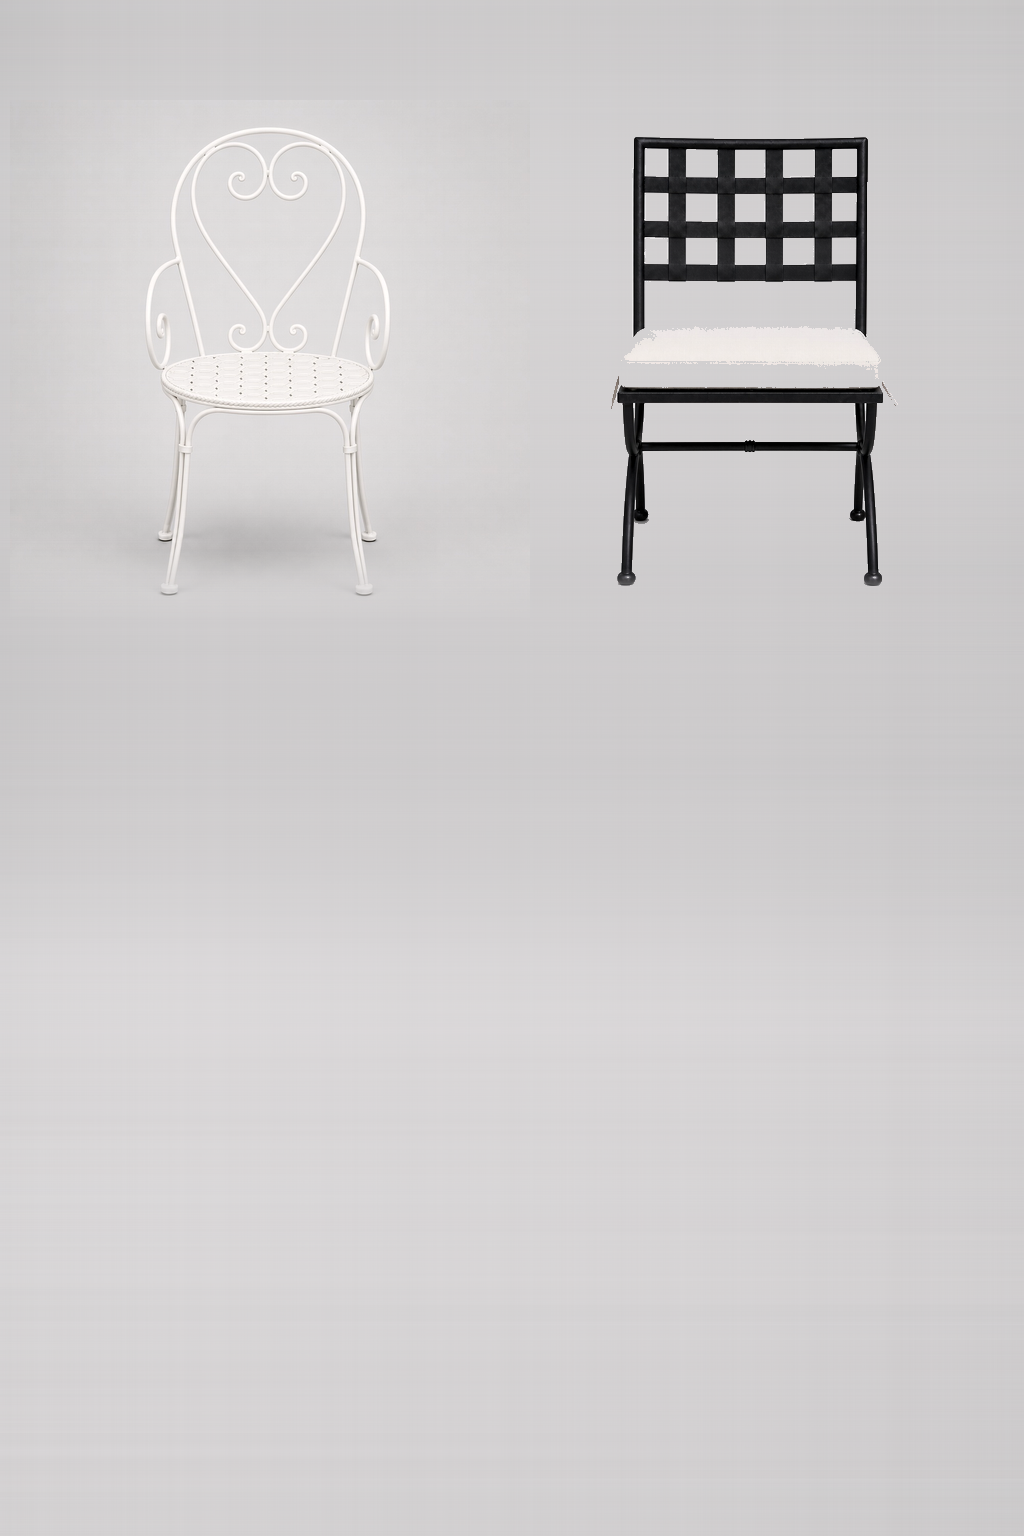
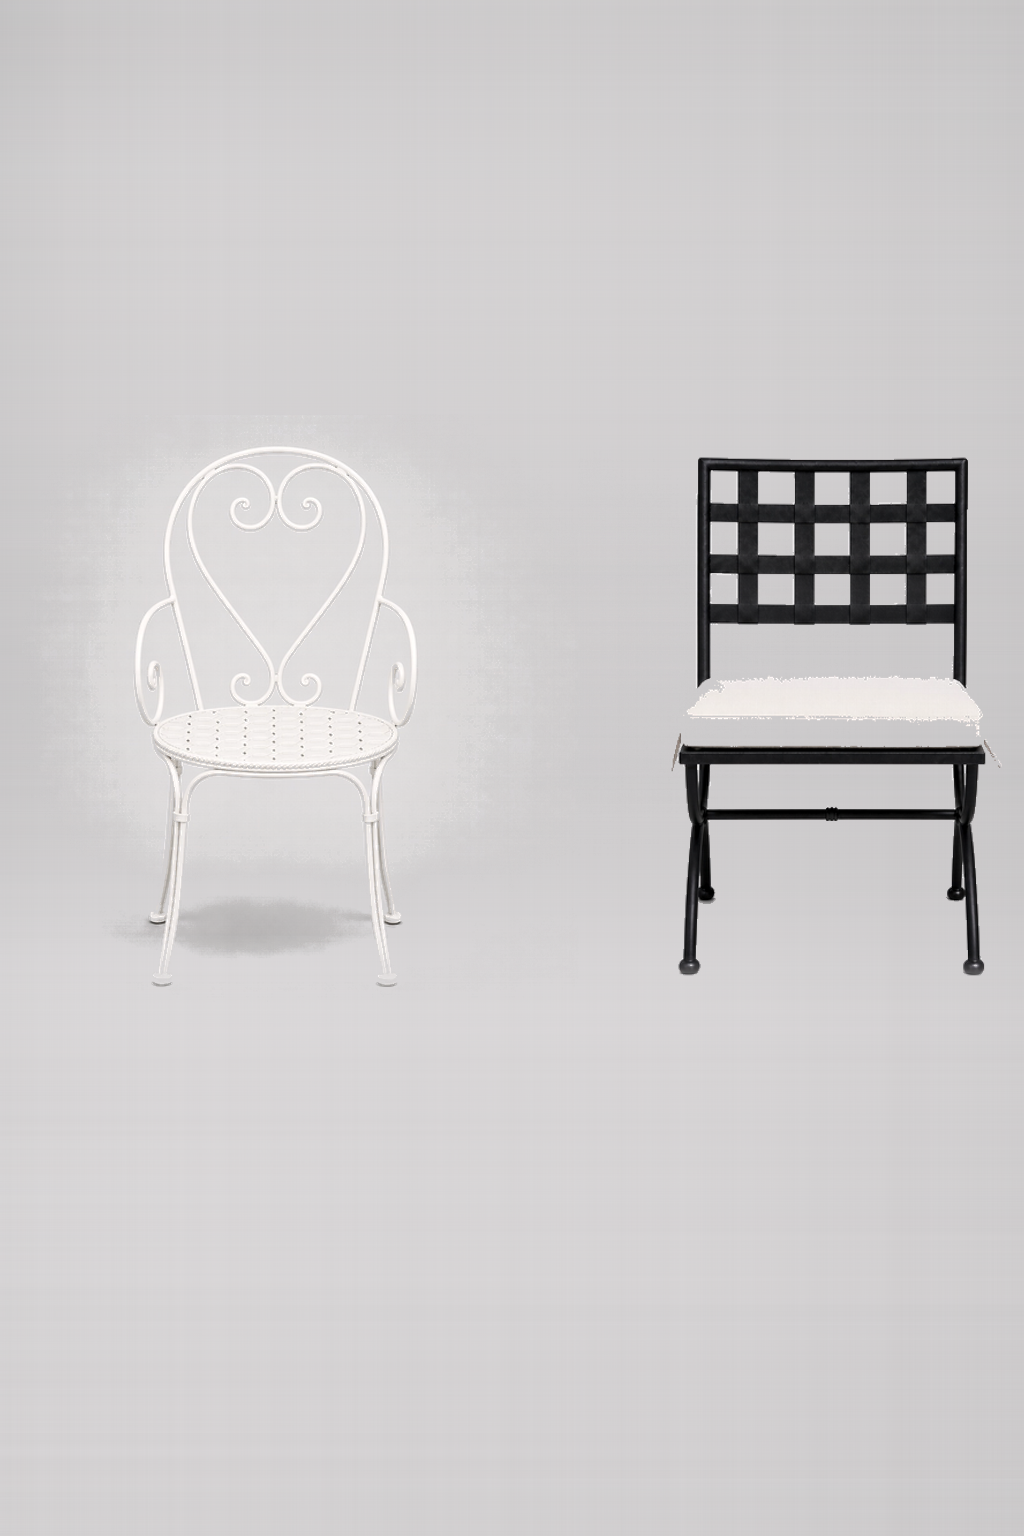
Lower the seating collection chairs so they sit mid-frame like the other cards.
The pair was painted into the top 39% of the PNG, and the 2:3 cover crop showed that in full.

diff --git a/index.html b/index.html
@@ -12,7 +12,7 @@
   <link rel="preconnect" href="https://fonts.googleapis.com" />
   <link rel="preconnect" href="https://fonts.gstatic.com" crossorigin />
   <link href="https://fonts.googleapis.com/css2?family=Cormorant+Garamond:ital,wght@0,400;0,500;0,600;1,400&family=Jost:wght@300;400;500&display=swap" rel="stylesheet" />
-  <link rel="stylesheet" href="css/style.css?v=76" />
+  <link rel="stylesheet" href="css/style.css?v=77" />
   <script type="application/ld+json">
   {
     "@context": "https://schema.org",

diff --git a/css/style.css b/css/style.css
@@ -309,7 +309,7 @@ a { color: var(--accent-text); text-decoration: none; }
   color: var(--accent-text);
 }
 .cc--seating {
-  background-image: url("../assets/img/collection-seating.png?v=76");
+  background-image: url("../assets/img/collection-seating.png?v=77");
 }
 .cc--umbrella {
   background-image: url("../assets/img/collection-umbrella.png");
